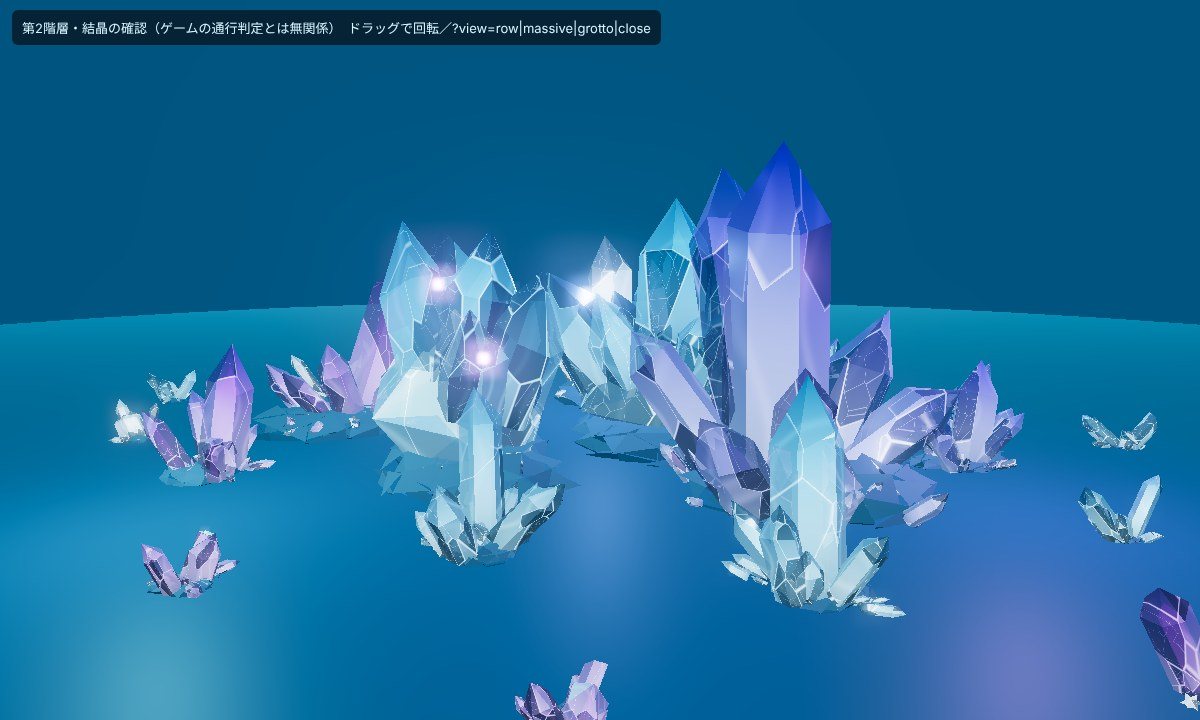
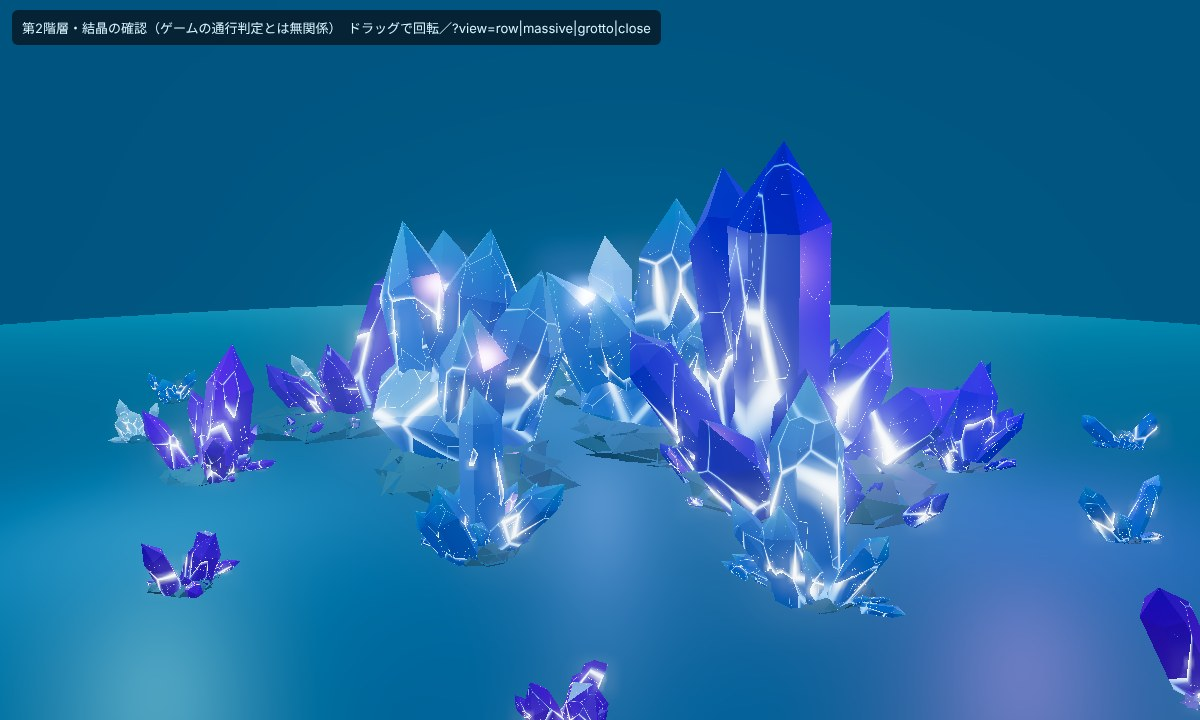
B2: 結晶を塊ごとに濃い単色に、光はひびからだけ（根元が太く青、中心が最も明るい）
- 塊全体を彩度の高い濃い色（輪郭がはっきりし、光る部分との差がつく）、先端だけ従来の色
- ひびの太さを高さで変える（根元が最も太く、上ほど細い）、根元は青い光、高さの中ほどが最も明るい
- ひびの無い所は内側の光を漏らさない（不透明・芯なし）

Claude-Session: https://claude.ai/code/session_01B5gNCGmr7UqvVkWBnkLkde

diff --git a/field/b2-crystals.js b/field/b2-crystals.js
@@ -16,11 +16,12 @@ import { ConvexGeometry } from 'three/addons/geometries/ConvexGeometry.js';
 
 // 色：base＝根元（乳白）、tip＝先端、core＝芯の光
 export const CRYSTAL_PALETTES = {
-  // 先端（tip）は濃く深い色。根元の乳白から先へ向かって一気に濃くなる
-  white: { base: 0xf7fbff, tip: 0xbcdcff, core: 0x9cc4ea },    // 透明な水晶（先端だけ薄い青）
-  cyan: { base: 0xd2f6ff, tip: 0x0096d6, core: 0x0a8cc8 },     // 水色（先端は深い水色）
-  violet: { base: 0xeadcff, tip: 0x5a12c8, core: 0x6a2ad8 },   // 紫（先端は濃いアメシスト）
-  blue: { base: 0xd8e4ff, tip: 0x1230c8, core: 0x2244d8 },     // 青（先端は群青）
+  // body：塊全体の色（濃く彩度の高い色。輪郭がはっきりし、ひびの光との差がつく）
+  // tip：結晶の先端だけの色（前回の確認で良かった色味）
+  white: { base: 0xf7fbff, body: 0x8fb8e6, tip: 0xbcdcff, core: 0x9cc4ea },    // 透明な水晶
+  cyan: { base: 0xd2f6ff, body: 0x0070c8, tip: 0x0096d6, core: 0x0a8cc8 },     // 水色
+  violet: { base: 0xeadcff, body: 0x6400c8, tip: 0x5a12c8, core: 0x6a2ad8 },   // 紫
+  blue: { base: 0xd8e4ff, body: 0x0a1ec8, tip: 0x1230c8, core: 0x2244d8 },     // 青
 };
 export const CRYSTAL_PARTS = ['shell', 'cloudy', 'fracture', 'core', 'rock'];
 
@@ -74,7 +75,7 @@ function quartzPoint(T, r, seed, kind, twin) {
   }
   if (twin) { const apex2 = V(-apex.x, -tipH * 0.9, -apex.z); for (let i = 0; i < 6; i++) T.add(faceKind(i + 12), ring0[(i + 1) % 6], apex2, ring0[i]); }
   // 芯：透ける面のある結晶だけ、中に細い発光の芯
-  if (kind === 'clear') {
+  if (false) {   // 芯は使わない（ひびの無い所から内側の光を漏らさない）
     const cr = r * 0.45, ch = bodyH * 0.92;
     for (let i = 0; i < 6; i++) {
       const a0 = (i / 6) * 6.283, a1 = ((i + 1) / 6) * 6.283;
@@ -86,15 +87,15 @@ function quartzPoint(T, r, seed, kind, twin) {
 }
 
 // 頂点の色：根元（y の低い所）は乳白、高い所ほど先端の色。割れ口は白寄り、芯は暗めの先端色
-function paint(geo, pal, kind, yMin, yMax) {
-  const p = geo.attributes.position, col = new Float32Array(p.count * 3);
-  const a = new THREE.Color(pal.base), b = new THREE.Color(kind === 'core' ? pal.core : pal.tip), c = new THREE.Color(), w = new THREE.Color(0xffffff);
+// 頂点の色：塊全体を濃い body 色で塗り、結晶の先端（結晶ごとの高さの上2割）だけ tip 色へ。
+// 割れ口は body を少し明るく。高さは結晶ごとの自分の座標（lpos.y）で見る
+function paint(geo, pal, kind) {
+  const p = geo.attributes.position, L = geo.attributes.lpos, col = new Float32Array(p.count * 3);
+  const body = new THREE.Color(pal.body), tip = new THREE.Color(pal.tip), c = new THREE.Color(), w = new THREE.Color(0xffffff);
   for (let i = 0; i < p.count; i++) {
-    const t = THREE.MathUtils.clamp((p.getY(i) - yMin) / Math.max(1e-3, yMax - yMin), 0, 1);
-    if (kind === 'core') { c.copy(a).lerp(b, 0.8 + t * 0.2).multiplyScalar(0.7 + t * 0.25); }
-    else if (kind === 'fracture') { c.copy(a).lerp(b, Math.pow(t, 0.7) * 0.5).lerp(w, 0.35); }
-    else if (kind === 'cloudy') { c.copy(a).lerp(b, 0.3 + Math.pow(t, 0.6) * 0.7); }
-    else c.copy(a).lerp(b, 0.4 + Math.pow(t, 0.5) * 0.6);   // 根元から色を残し、上半分はほぼ先端の濃い色
+    const y = L ? L.getY(i) : p.getY(i), t = THREE.MathUtils.smoothstep(y, 0.78, 0.98);
+    c.copy(body).lerp(tip, t);
+    if (kind === 'fracture') c.lerp(w, 0.18);
     col.set([c.r, c.g, c.b], i * 3);
   }
   geo.setAttribute('color', new THREE.BufferAttribute(col, 3));
@@ -180,7 +181,7 @@ export function makeCrystalCluster(seed, paletteName, size = 'large') {
     }
   }
   // 色は群晶全体の高さに対して付ける（根元が乳白、上ほど濃い）
-  for (const k of Object.keys(T.b)) { const g = toGeo(T.b[k], T.l[k]); if (g) out[k].push(paint(g, pal, k, 0, size === 'massive' ? 0.9 : 1.0)); }
+  for (const k of Object.keys(T.b)) { const g = toGeo(T.b[k], T.l[k]); if (g) out[k].push(paint(g, pal, k)); }
   return out;
 }
 
@@ -210,18 +211,26 @@ function crystalShader(m, key, o) {
       .replace('#include <begin_vertex>', '#include <begin_vertex>\nvL = lpos;');
     sh.fragmentShader = sh.fragmentShader.replace('#include <common>', '#include <common>\nvarying vec3 vL;\n' + CRYSTAL_GLSL)
       .replace('#include <color_fragment>', `#include <color_fragment>
-        vec3 cv = _vor(vec3(vL.x * 4.2, vL.y * 2.1, vL.z * 4.2) + vec3(0.0, sin(vL.x * 3.0 + vL.z * 2.0) * 0.35, 0.0));   // ゆがめて不規則な大きめの斑に
-        vec3 cv2 = _vor(vec3(vL.x * 11.0, vL.y * 6.0, vL.z * 11.0));
-        float crack = ((1.0 - smoothstep(0.0, 0.04, cv.y)) * step(0.4, cv.z) + (1.0 - smoothstep(0.0, 0.025, cv2.y)) * 0.3 * step(0.7, cv.z));   // 光のひび（所々だけ。全体を網目にしない）
-        float dark = step(${o.darkCut.toFixed(2)}, cv.z) * (1.0 - crack);   // 暗い内包物の斑
-        float streak = pow(0.5 + 0.5 * sin(vL.x * 31.0 + vL.z * 23.0 + sin(vL.y * 9.0) * 1.5), 8.0);   // 長さ方向の光の筋
-        diffuseColor.rgb *= mix(${o.body.toFixed(2)}, ${(o.body * 0.25).toFixed(2)}, dark);`)
+        float hy = clamp(vL.y, 0.0, 1.0);
+        // ひびの太さ：根元が一番太く、上へ行くほど細い。所々の細胞の境目だけがひびになる
+        float w = mix(${o.wRoot.toFixed(3)}, 0.012, smoothstep(0.0, 0.85, hy));
+        vec3 cv = _vor(vec3(vL.x * 3.6, vL.y * 1.8, vL.z * 3.6) + vec3(0.0, sin(vL.x * 3.0 + vL.z * 2.0) * 0.35, 0.0));
+        vec3 cv2 = _vor(vec3(vL.x * 9.0, vL.y * 5.0, vL.z * 9.0));
+        float big = (1.0 - smoothstep(0.0, w, cv.y)) * step(0.3, cv.z);
+        float fine = (1.0 - smoothstep(0.0, w * 0.35, cv2.y)) * step(0.62, cv2.z) * 0.7;
+        float crack = max(big, fine);
+        float halo = (1.0 - smoothstep(0.0, w * 2.5, cv.y)) * step(0.3, cv.z) * 0.22;   // ひびのまわりににじむ光
+        // ひびの光の色と強さ：根元は青、中心（高さ0.4付近）が一番明るく白に近い、先端へ弱まる
+        float mid = exp(-pow((hy - 0.42) / 0.16, 2.0));
+        vec3 crackCol = mix(vec3(0.08, 0.32, 1.0), vec3(0.8, 0.96, 1.0), mid);
+        float crackI = mix(1.0, 2.2, mid) * (1.0 - smoothstep(0.75, 1.0, hy) * 0.65) * ${o.crack.toFixed(2)};
+        // 本体は暗く濃く（彩度を上げる）：明るさを抑え、灰色に寄った分を色の方向へ押し戻す
+        vec3 bc = diffuseColor.rgb * 0.62; float bl = dot(bc, vec3(0.299, 0.587, 0.114)); bc = clamp(mix(vec3(bl), bc, 1.35), 0.0, 1.0);
+        diffuseColor.rgb = mix(bc, crackCol, crack * 0.5);`)
       .replace('#include <emissivemap_fragment>', `#include <emissivemap_fragment>
         { float facing = clamp(abs(dot(normal, normalize(vViewPosition))), 0.0, 1.0);
-          float bell = sin(3.14159 * clamp(vL.y, 0.0, 1.0));
-          float center = pow(facing, 4.0) * (0.25 + 0.75 * bell);   // 正面を向いた面の中ほどが最も明るい
-          float glow = ${o.base.toFixed(2)} + center * ${o.center.toFixed(2)} + crack * ${o.crack.toFixed(2)} + streak * 0.18 + pow(1.0 - facing, 2.2) * ${o.rim.toFixed(2)};
-          totalEmissiveRadiance += vColor.rgb * glow * (1.0 - dark * 0.75) + vec3(1.0) * center * crack * ${o.white.toFixed(2)}; }`);
+          // ひびの無い所はほぼ光らない（内側の光を漏らさない）。輪郭のふちだけ本体の色でわずかに光る
+          totalEmissiveRadiance += crackCol * (crack + halo) * crackI + vColor.rgb * (${o.base.toFixed(2)} + pow(1.0 - facing, 3.0) * ${o.rim.toFixed(2)}); }`);
   };
   m.customProgramCacheKey = () => key;
   return m;
@@ -231,13 +240,12 @@ function crystalShader(m, key, o) {
 // shell：透明な面（半透明・強い映り込み） cloudy：濁った面（不透明、内側から光る） fracture：割れ口（白っぽくざらつく）
 // core：透明な結晶の芯（光源に関係なく光る） rock：母岩
 export function makeCrystalMaterials() {
-  const shell = crystalShader(new THREE.MeshStandardMaterial({ color: 0xffffff, vertexColors: true, roughness: 0.05, metalness: 0.0, envMapIntensity: 1.2, transparent: true, opacity: 0.78, flatShading: true }), 'b2crystalShell2',
-    { base: 0.07, center: 1.7, crack: 0.75, rim: 0.3, white: 0.6, body: 0.45, darkCut: 0.6 });
-  const cloudy = crystalShader(new THREE.MeshStandardMaterial({ color: 0xffffff, vertexColors: true, roughness: 0.3, metalness: 0.0, envMapIntensity: 1.0, flatShading: true }), 'b2crystalCloudy2',
-    { base: 0.09, center: 1.0, crack: 0.6, rim: 0.22, white: 0.3, body: 0.5, darkCut: 0.55 });
-  const fracture = crystalShader(new THREE.MeshStandardMaterial({ color: 0xffffff, vertexColors: true, roughness: 0.62, metalness: 0.0, envMapIntensity: 0.8, flatShading: true }), 'b2crystalFracture2',
-    { base: 0.1, center: 0.35, crack: 0.9, rim: 0.15, white: 0.35, body: 0.75, darkCut: 0.85 });
-  const core = new THREE.MeshBasicMaterial({ vertexColors: true });   // 不透明（先に描かれ、半透明の殻を通して見える）
-  const rock = new THREE.MeshStandardMaterial({ color: 0x5a7690, roughness: 0.85, metalness: 0.0, flatShading: true });
+  // 3つとも不透明。つやの違いで面ごとの表情を変える（shell：つやつや／cloudy：少し曇る／fracture：割れ口でざらつき、ひびが多い）
+  const mk = (rough, env, key, o) => crystalShader(new THREE.MeshStandardMaterial({ color: 0xffffff, vertexColors: true, roughness: rough, metalness: 0.0, envMapIntensity: env, flatShading: true }), key, o);
+  const shell = mk(0.14, 0.75, 'b2crystalShell4', { wRoot: 0.11, crack: 0.85, base: 0.1, rim: 0.3 });
+  const cloudy = mk(0.32, 0.55, 'b2crystalCloudy4', { wRoot: 0.1, crack: 0.75, base: 0.1, rim: 0.22 });
+  const fracture = mk(0.6, 0.45, 'b2crystalFracture4', { wRoot: 0.14, crack: 1.05, base: 0.11, rim: 0.12 });
+  const core = new THREE.MeshBasicMaterial({ vertexColors: true });
+  const rock = new THREE.MeshStandardMaterial({ color: 0x4a6278, roughness: 0.85, metalness: 0.0, flatShading: true });
   return { shell, cloudy, fracture, core, rock };
 }
